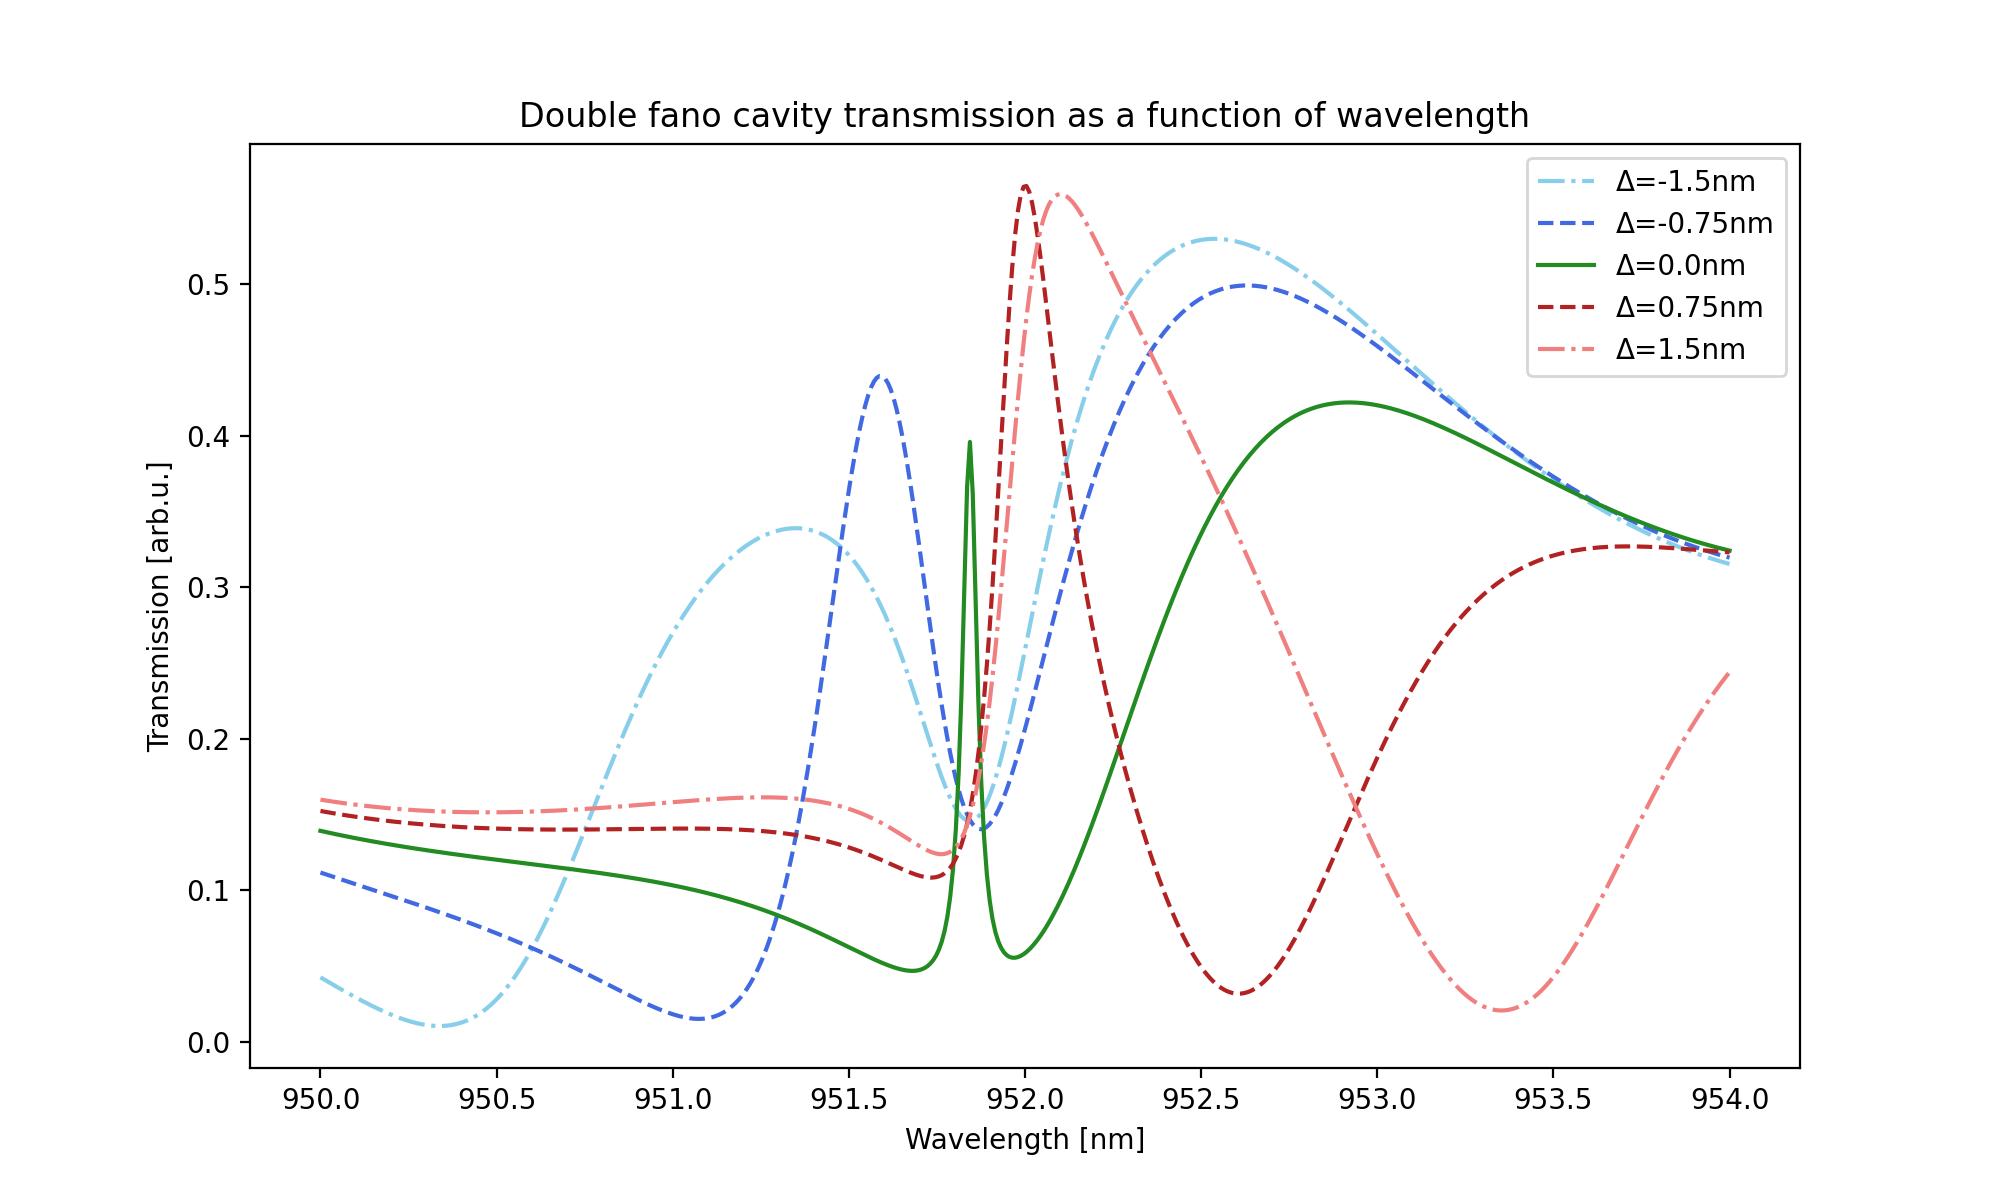
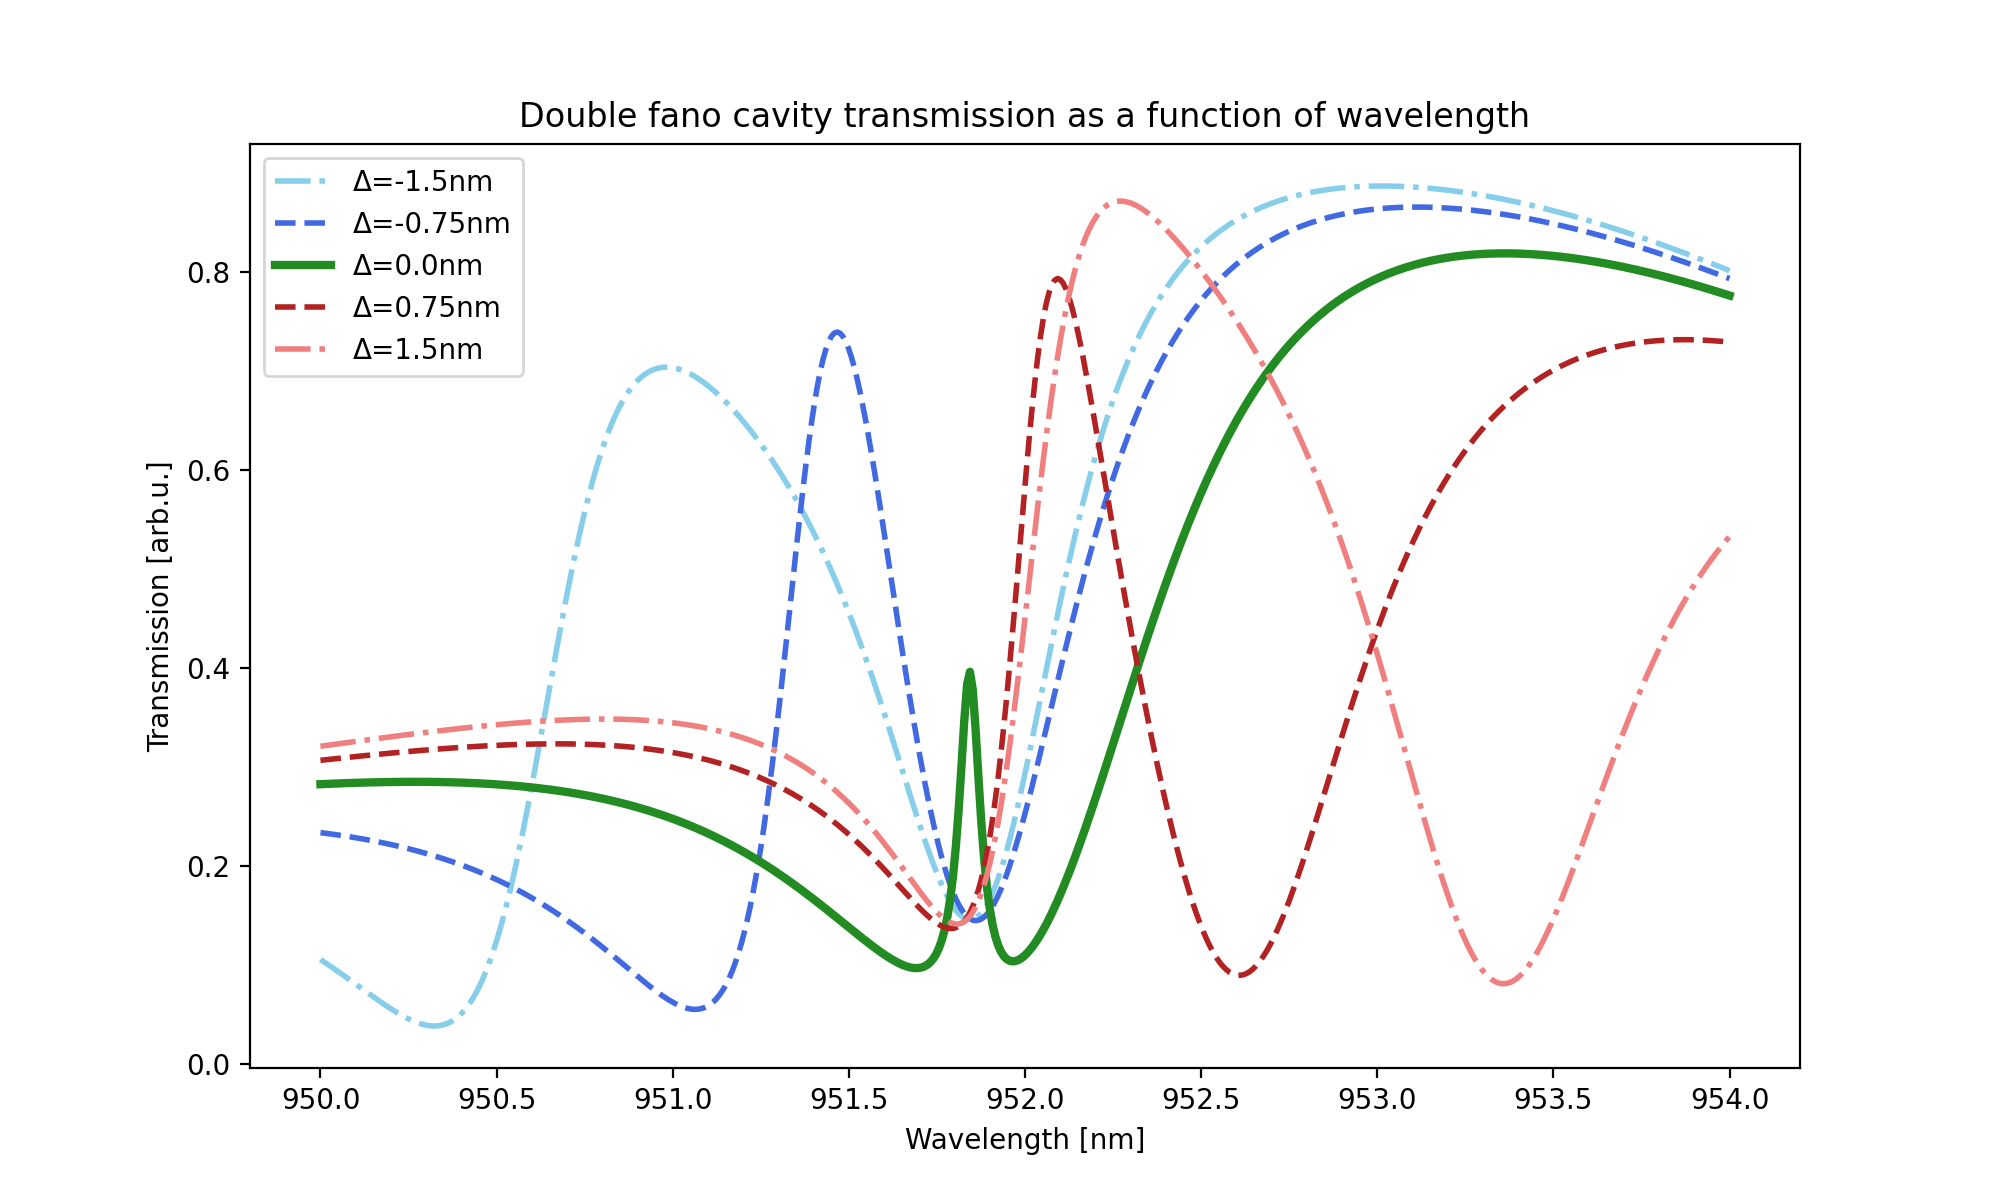
-

diff --git a/fano_theory.py b/fano_theory.py
@@ -22,8 +22,8 @@ params2 = M3.lossy_fit([952,952,0.6,1,0.1])
 # γλ -> width of guided mode resonance
 # α  -> loss factor 
 
-λs = np.linspace(951.5, 952.25, 500)
-#λs = np.linspace(910, 980, 10000)
+λs = np.linspace(950, 954, 500)
+#λs = np.linspace(945, 960, 10000)
 #λs = np.linspace(951.6, 951.9, 200)
 
 def model(λ, λ0, λ1, td, γλ, β): 
@@ -145,7 +145,7 @@ def double_cavity_length(params1: list, params2: list, λs: np.array):
     lengths = []
     Ts = []
 
-    lmin = 100
+    lmin = 30
     ls = np.linspace(lmin,lmin+1,100000)*1e3
 
     for l in ls:
@@ -293,7 +293,12 @@ def detuning_plot(Δs: list, params: list, λs: np.array, intracavity=False, los
         params2[0] += Δ
         params2[1] += Δ
         Ts =  dual_fano_transmission(params, params2, length, λs, intracavity=intracavity, losses=losses)
-        plt.plot(λs, Ts, color=paint, linestyle=style, label="Δ=%snm" %(round(Δ,2)))
+        if np.abs(Δ) < 1e-6:
+            linesize = 3
+        else:
+            linesize = 2
+        plt.plot(λs, Ts, color=paint, linestyle=style, linewidth=linesize, label="Δ=%snm" %(round(Δ,2)))
+
 
     plt.title("Double fano cavity transmission as a function of wavelength")
     plt.xlabel("Wavelength [nm]")
@@ -314,22 +319,22 @@ def cavity_length_plot(ls: list, params1: list, params2: list, λs: np.array, in
     plt.show() 
 
 def l_vs_λ_cmaps(params1: list, params2: list, λs: np.array, intracavity=False, losses=True): 
-    params2[1] += 0.60
-    params2[0] += 0.60
-    Δs = 0.12
+    params2[1] += 0.40
+    params2[0] += 0.40
+    Δs = 0.08
     rows = 3
     columns = 3
-    Δ_label = 0.60
+    Δ_label = 0.40
     fig, ax = plt.subplots(rows,columns, figsize=(18,8))
     for i in range(rows):
         for j in range(columns):
             params2[1] -= Δs
             params2[0] -= Δs
             Δ_label -= Δs
-            if Δ_label != 0.0:
-                ls = np.linspace(double_cavity_length(params1, params2, λs), double_cavity_length(params2, params1, λs), 20)
-            else:
+            if np.abs(Δ_label) < 1e-6:
                 ls = np.linspace(double_cavity_length(params1, params2, λs)-0.1, double_cavity_length(params2, params1, λs)+0.1, 20)
+            else:
+                ls = np.linspace(double_cavity_length(params1, params2, λs), double_cavity_length(params2, params1, λs), 20)
             Ts = []
             for l in ls:
                 T = dual_fano_transmission(params1, params2, l, λs, intracavity=intracavity, losses=losses)
@@ -356,7 +361,7 @@ def l_vs_λ_cmaps(params1: list, params2: list, λs: np.array, intracavity=False
     fig.colorbar(im, cax=cbar_ax)
     if intracavity == False and losses == False:
         fig.text(0.5, 0.93, 'Double fano lossless transmission as a function of cavity length for different values of Δ', ha='center', va='center', fontsize=16) 
-    if intracavity == False and losses == True:
+    elif intracavity == False and losses == True:
         fig.text(0.5, 0.93, 'Double fano transmission as a function of cavity length for different values of Δ', ha='center', va='center', fontsize=16) 
     else: 
         fig.text(0.5, 0.93, 'Double fano lossless intracavity intensity as a function of cavity length for different values of Δ', ha='center', va='center', fontsize=16) 
@@ -453,12 +458,12 @@ def line_width_comparison(params1: list, params2: list, length: float, intracavi
 
 #### double fano transmission as a function of detuning ####
 
-Δs = np.linspace(-0.3, 0.3, 5) # detuning in nm
-detuning_plot(Δs, params1, λs, intracavity=False, losses=True)
+#Δs = np.linspace(-1.5, 1.5, 5) # detuning in nm
+#detuning_plot(Δs, params1, λs, intracavity=False, losses=True)
 
 #### Heat maps of cavity transmission as a function of wavelength and cavity length ####
 
-#l_vs_λ_cmaps(params1, params2, λs, intracavity=True, losses=False)
+#l_vs_λ_cmaps(params1, params2, λs, intracavity=True, losses=True)
 #double_fano_cmap(params1, params2, λs)
 
 
@@ -470,7 +475,7 @@ detuning_plot(Δs, params1, λs, intracavity=False, losses=True)
 #length = double_cavity_length(params1, params2, λs)
 #dual_fano_transmission_plot(params1, params2, length, λs, intracavity=False, losses=True, total_grating_trans=True, zoom=False)
 
-#ls = np.linspace(double_cavity_length(params1,params2,λs), double_cavity_length(params2,params1,λs)+1*1e3, 100)
+#ls = np.linspace(double_cavity_length(params1,params2,λs), double_cavity_length(params2,params1,λs), 5)
 #cavity_length_plot(ls, params1, params2, λs, intracavity=False)
 
 
